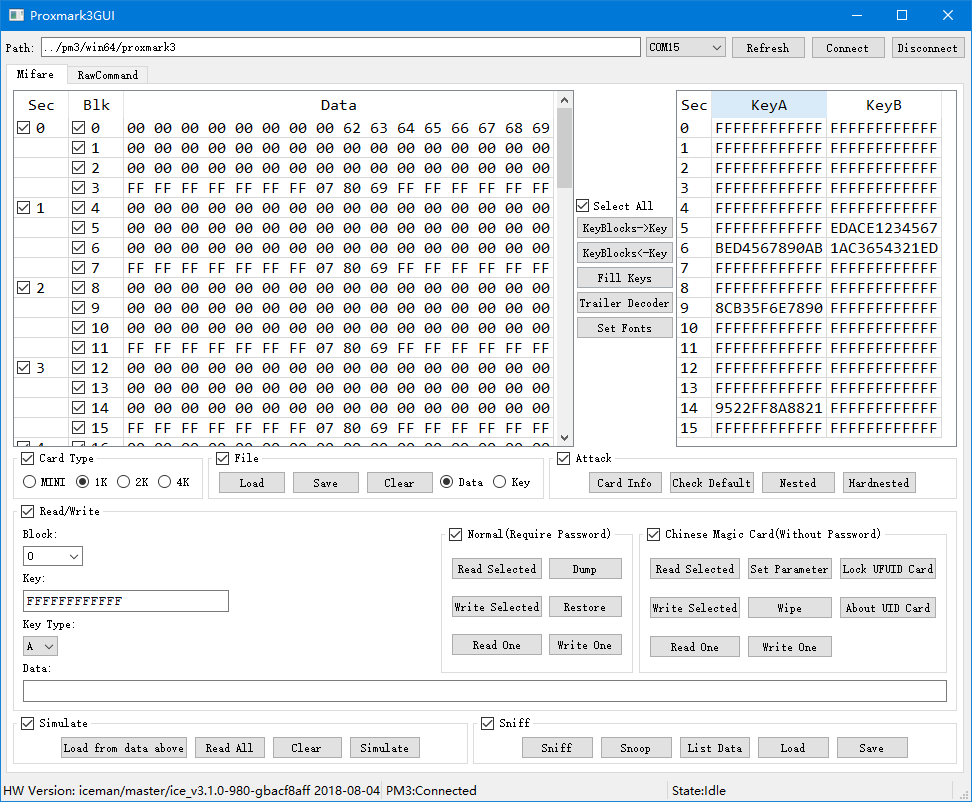
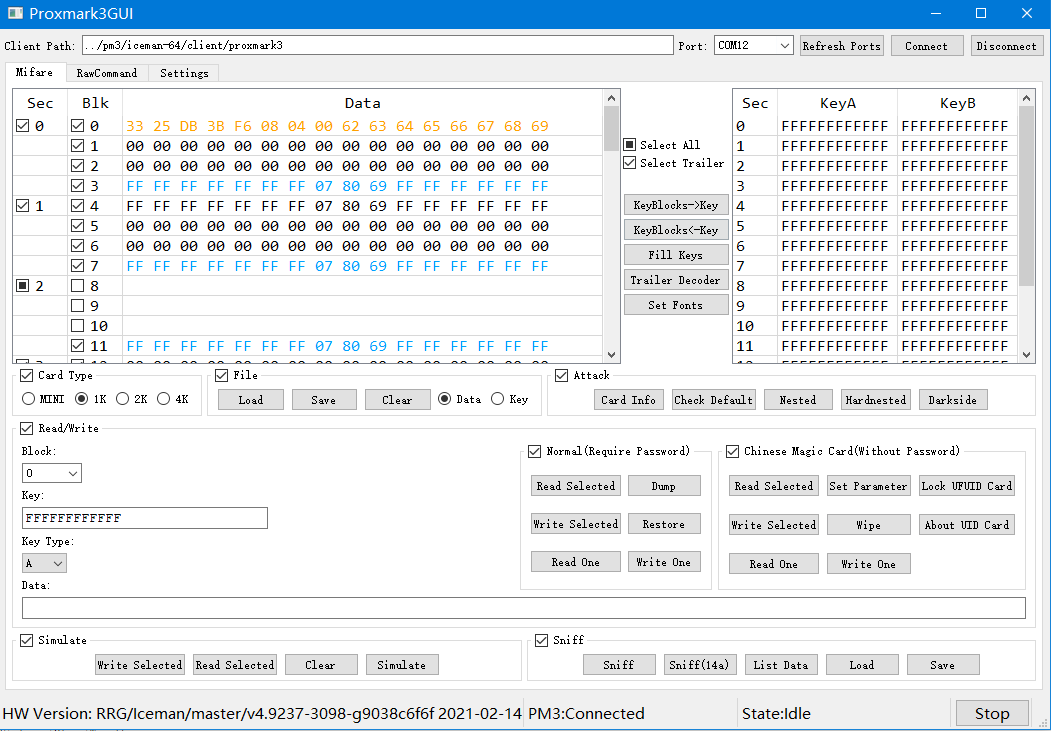
V0.1.4

diff --git a/README/doc/README_zh_CN.md b/README/doc/README_zh_CN.md
@@ -1,5 +1,7 @@
 # Proxmark3GUI
-一个自制的[Proxmark3](https://github.com/Proxmark/proxmark3) GUI
+![downloads](https://img.shields.io/github/downloads/wh201906/Proxmark3GUI/total)  
+
+一个自制的[Proxmark3](https://github.com/Proxmark/proxmark3) GUI，可在Windows/Linux系统下运行
 
 [English](../../README.md)
 
@@ -30,22 +32,46 @@
 ***
 
  ## 关于冰人版
- 这个GUI一开始是针对官方版本做的，现在正在尽力让它兼容冰人版的功能  
- （没钱买RDV4也没钱买两台PM3，测一次冰人就要烧一次固件 qwq）
+ [冰人版](https://github.com/RfidResearchGroup/proxmark3)(Iceman/RRG)的客户端和固件更新更为激进，相比官方版具有更多的功能  
+ 此GUI所有功能均兼容冰人版（在v4.9237上测试通过）  
 
- [已支持功能](../doc/supported_Iceman.md)
 ***
 
 ## 关于预编译Windows客户端
 
-一个国外大佬 [Gator96100](https://github.com/Gator96100) 做了个 [ProxSpace](https://github.com/Gator96100/ProxSpace) 以便在Windows平台上编译PM3固件和客户端，他还把自己编译好的客户端放到了[论坛](http://www.proxmark.org/forum/viewtopic.php?id=3975)里面  
-文件都是放到Google Drive上面的，国内网络无法访问，所以我在release版本里面放了个带预编译客户端版本的GUI。这个GUI也可以搭配你自己的客户端使用  
+一位国外大佬 [Gator96100](https://github.com/Gator96100) 做了个 [ProxSpace](https://github.com/Gator96100/ProxSpace) 以便在Windows平台上编译PM3固件和客户端，他还把自己编译好的客户端放到了[网站](https://www.proxmarkbuilds.org/)上  
+release页面中有含客户端的GUI。这个GUI也可以搭配你自己的客户端使用  
 (本来打算在CSDN下载里面放几个最新版客户端的，结果不能把下载币改为0)  
 感谢大佬  
 
 ***
 
+## 在Linux系统下编译
+
+    cd ~
+    git clone https://github.com/wh201906/Proxmark3GUI.git
+    cd Proxmark3GUI
+    mkdir build
+    cd build
+    qmake ../
+    make
+    make clean
+    cp -r ../lang ./
+    ./Proxmark3GUI
+
+***
+
 ## 更新日志:
+
+### V0.1.4
++ 优化性能  
++ 优化用户界面  
++ 自动搜索可用端口  
++ 支持高分屏  
++ 可通过外部脚本配置环境变量  
+(在客户端需要配置环境变量时很有用)  
++ 全功能兼容冰人版（在v4.9237上测试通过）  
++ 修复部分bug
 
 ### V0.1.3
 + 修复访问控制位解码器

diff --git a/README.md b/README.md
@@ -1,5 +1,7 @@
 # Proxmark3GUI
-A GUI for [Proxmark3](https://github.com/Proxmark/proxmark3) client
+![downloads](https://img.shields.io/github/downloads/wh201906/Proxmark3GUI/total)  
+
+A cross-platform GUI for [Proxmark3](https://github.com/Proxmark/proxmark3) client
 
 [中文](README/doc/README_zh_CN.md)
 
@@ -32,24 +34,45 @@ A GUI for [Proxmark3](https://github.com/Proxmark/proxmark3) client
 ## About Iceman fork/repo
 
 The [Iceman fork/repo](https://github.com/RfidResearchGroup/proxmark3) has more powerful functions like offline sniff. These guys even developed a new hardware called Proxmark3 RDV4 with smart card support. But the official repo and the Iceman repo is not fully compatible.  
-This GUI was designed for only official repo at first, but I'm trying to make it compatible with Iceman repo.  
-
-Supported functions when using Iceman client:  
-
-[supported functions](README/doc/supported_Iceman.md)  
+This GUI is compatible with Iceman/RRG repo(tested on v4.9237)  
 
 ***
 
 ## About Compiled Windows clients
 
 A cool guy [Gator96100](https://github.com/Gator96100) creates [ProxSpace](https://github.com/Gator96100/ProxSpace) and makes it possible to compile both the firmware and client on Windows.  
-Also, he makes the [pre-compiled Windows client](http://www.proxmark.org/forum/viewtopic.php?id=3975) so you can download it and run your PM3 client on Windows instantly.  
+Also, he makes the [pre-compiled Windows client](https://www.proxmarkbuilds.org/) so you can download it and run your PM3 client on Windows instantly.  
 I included his compiled client in my releases so you can use the GUI on the fly, and you can also use the GUI with your prefered client.  
 Great thanks to him.  
 
 ***
 
+## Build on Linux
+
+    cd ~
+    git clone https://github.com/wh201906/Proxmark3GUI.git
+    cd Proxmark3GUI
+    mkdir build
+    cd build
+    qmake ../
+    make
+    make clean
+    cp -r ../lang ./
+    ./Proxmark3GUI
+
+***
+
 ## Update Log:
+
+### V0.1.4
++ Optimize performance  
++ Optimize UI  
++ Search available ports automatically  
++ Add High-DPI support  
++ Support configuring environment variables by script  
+(Useful when the client requires specific environment variables)  
++ All functions are compatible with Iceman/RRG repo(tested on v4.9237)  
++ Fix some bugs
 
 ### V0.1.3
 + Fix Trailer Decoder
